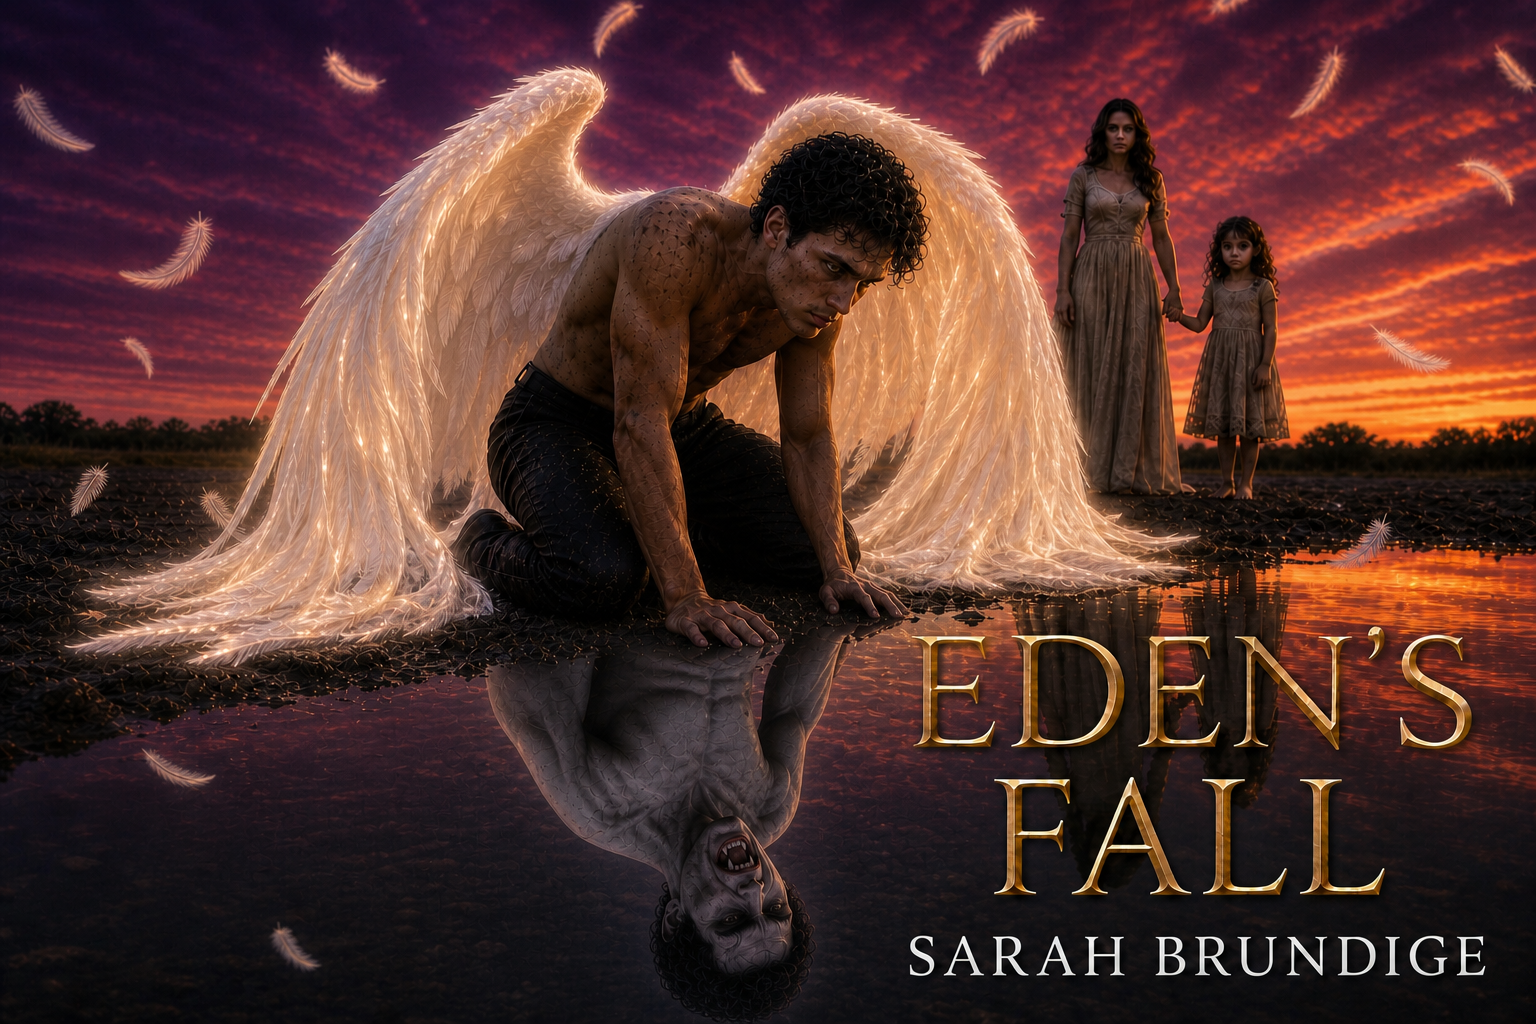
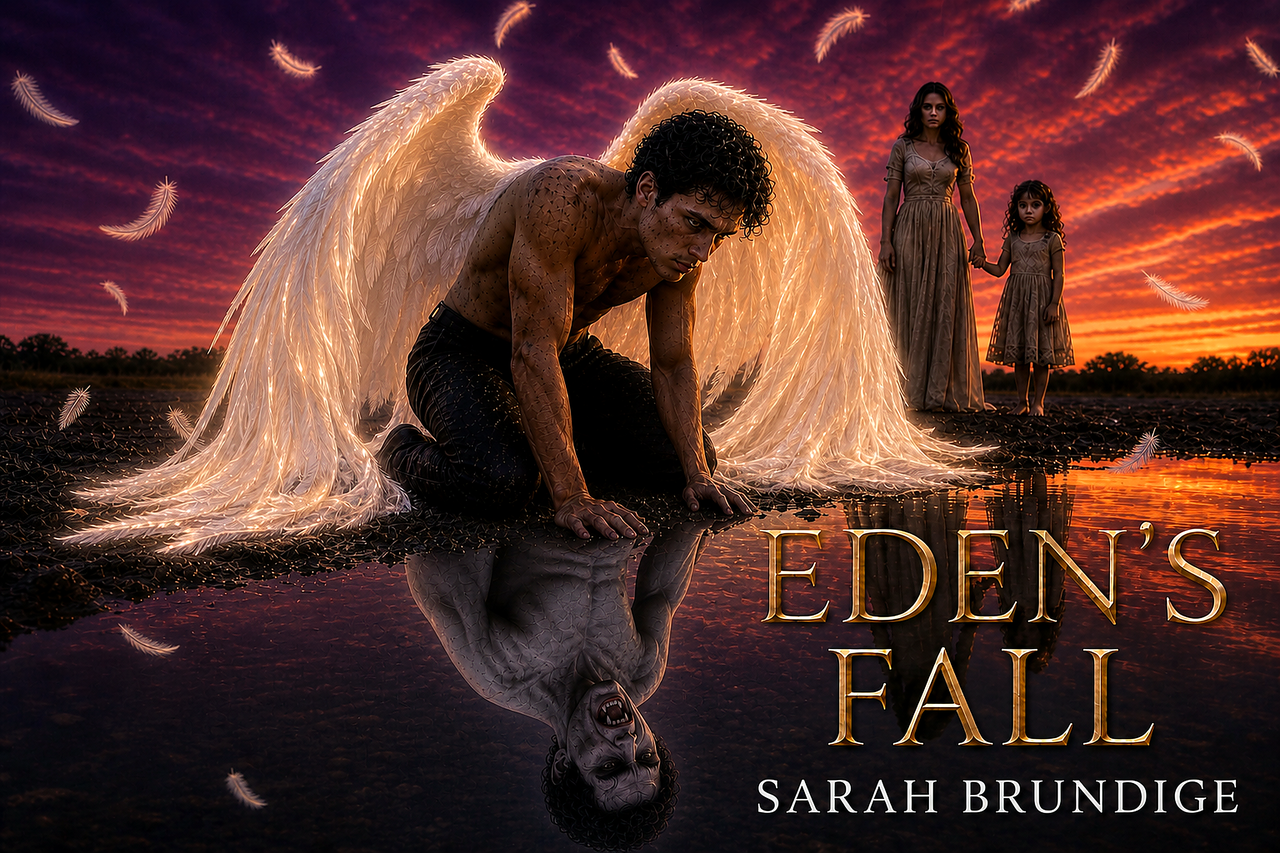
Home S1: Eden samples use published sunset print front
Soft-PASS (Sarah via Rook 1:37 AM Oct 5): swap SAMPLES[0] to Edens-Fall-FRONT-cover-print-300dpi derivatives; matching print back detail; regen og-home.jpg; provenance README. Matched front+back copy restored.

diff --git a/src/screens/Landing.tsx b/src/screens/Landing.tsx
@@ -24,7 +24,7 @@ type Props = {
  * Cover samples shown on the home page. Real work only: never stock art, AI mock-ups, or
  * invented "client" covers. Add or remove an entry here to change the section; with an
  * empty array the hero falls back to the desk illustration and the samples section shows a
- * single "Samples on request" line. Eden's Fall approved by Sarah (via Rook, 12:59 AM Oct 5).
+ * single "Samples on request" line. Eden's Fall approved by Sarah (via Rook, 12:59 AM Oct 5). S1 Soft-PASS 1:37 AM Oct 5: web front is the published sunset print front (Edens-Fall-FRONT-cover-print-300dpi), matching the print back detail.
  * The back cover is a cropped detail: the author name and barcode are left off on purpose.
  */
 type CoverSample = {
@@ -50,7 +50,7 @@ const SAMPLES: CoverSample[] = [
       { src: "/samples/edens-fall-front-1280.webp", w: 1280 },
     ],
     width: 800,
-    height: 450,
+    height: 533,
   },
   {
     id: "edens-fall-back",
@@ -306,8 +306,8 @@ export default function Landing({ onSignedIn, onScanStart, onOpenPrivacy, onOpen
             <>
               <div className="hs-section-head">
                 <p className="hs-eyebrow">Recent work</p>
-                <h2 id="samples-heading">Eden&rsquo;s Fall</h2>
-                <p className="hs-muted">Cover art and a back-cover detail from Eden&rsquo;s Fall, designed by Sarah.</p>
+                <h2 id="samples-heading">Eden&rsquo;s Fall, front and back</h2>
+                <p className="hs-muted">A front and back cover set designed by Sarah.</p>
               </div>
               <div className="hs-sample-grid">
                 {SAMPLES.map((s) => (

diff --git a/public/samples/README.md b/public/samples/README.md
@@ -1,0 +1,7 @@
+# Eden's Fall samples
+
+Source art: Sarah Brundige's own book *Eden's Fall* (print covers under `/workspace/edens-fall-covers/`).
+Web derivatives here are resized/cropped for the Quillbench home page only; originals untouched.
+
+- Front: from `Edens-Fall-FRONT-cover-print-300dpi.png` (published sunset print front).
+- Back detail: top crop of `Edens-Fall-BACK-cover-print-300dpi.png` (author name and barcode left off on purpose).
